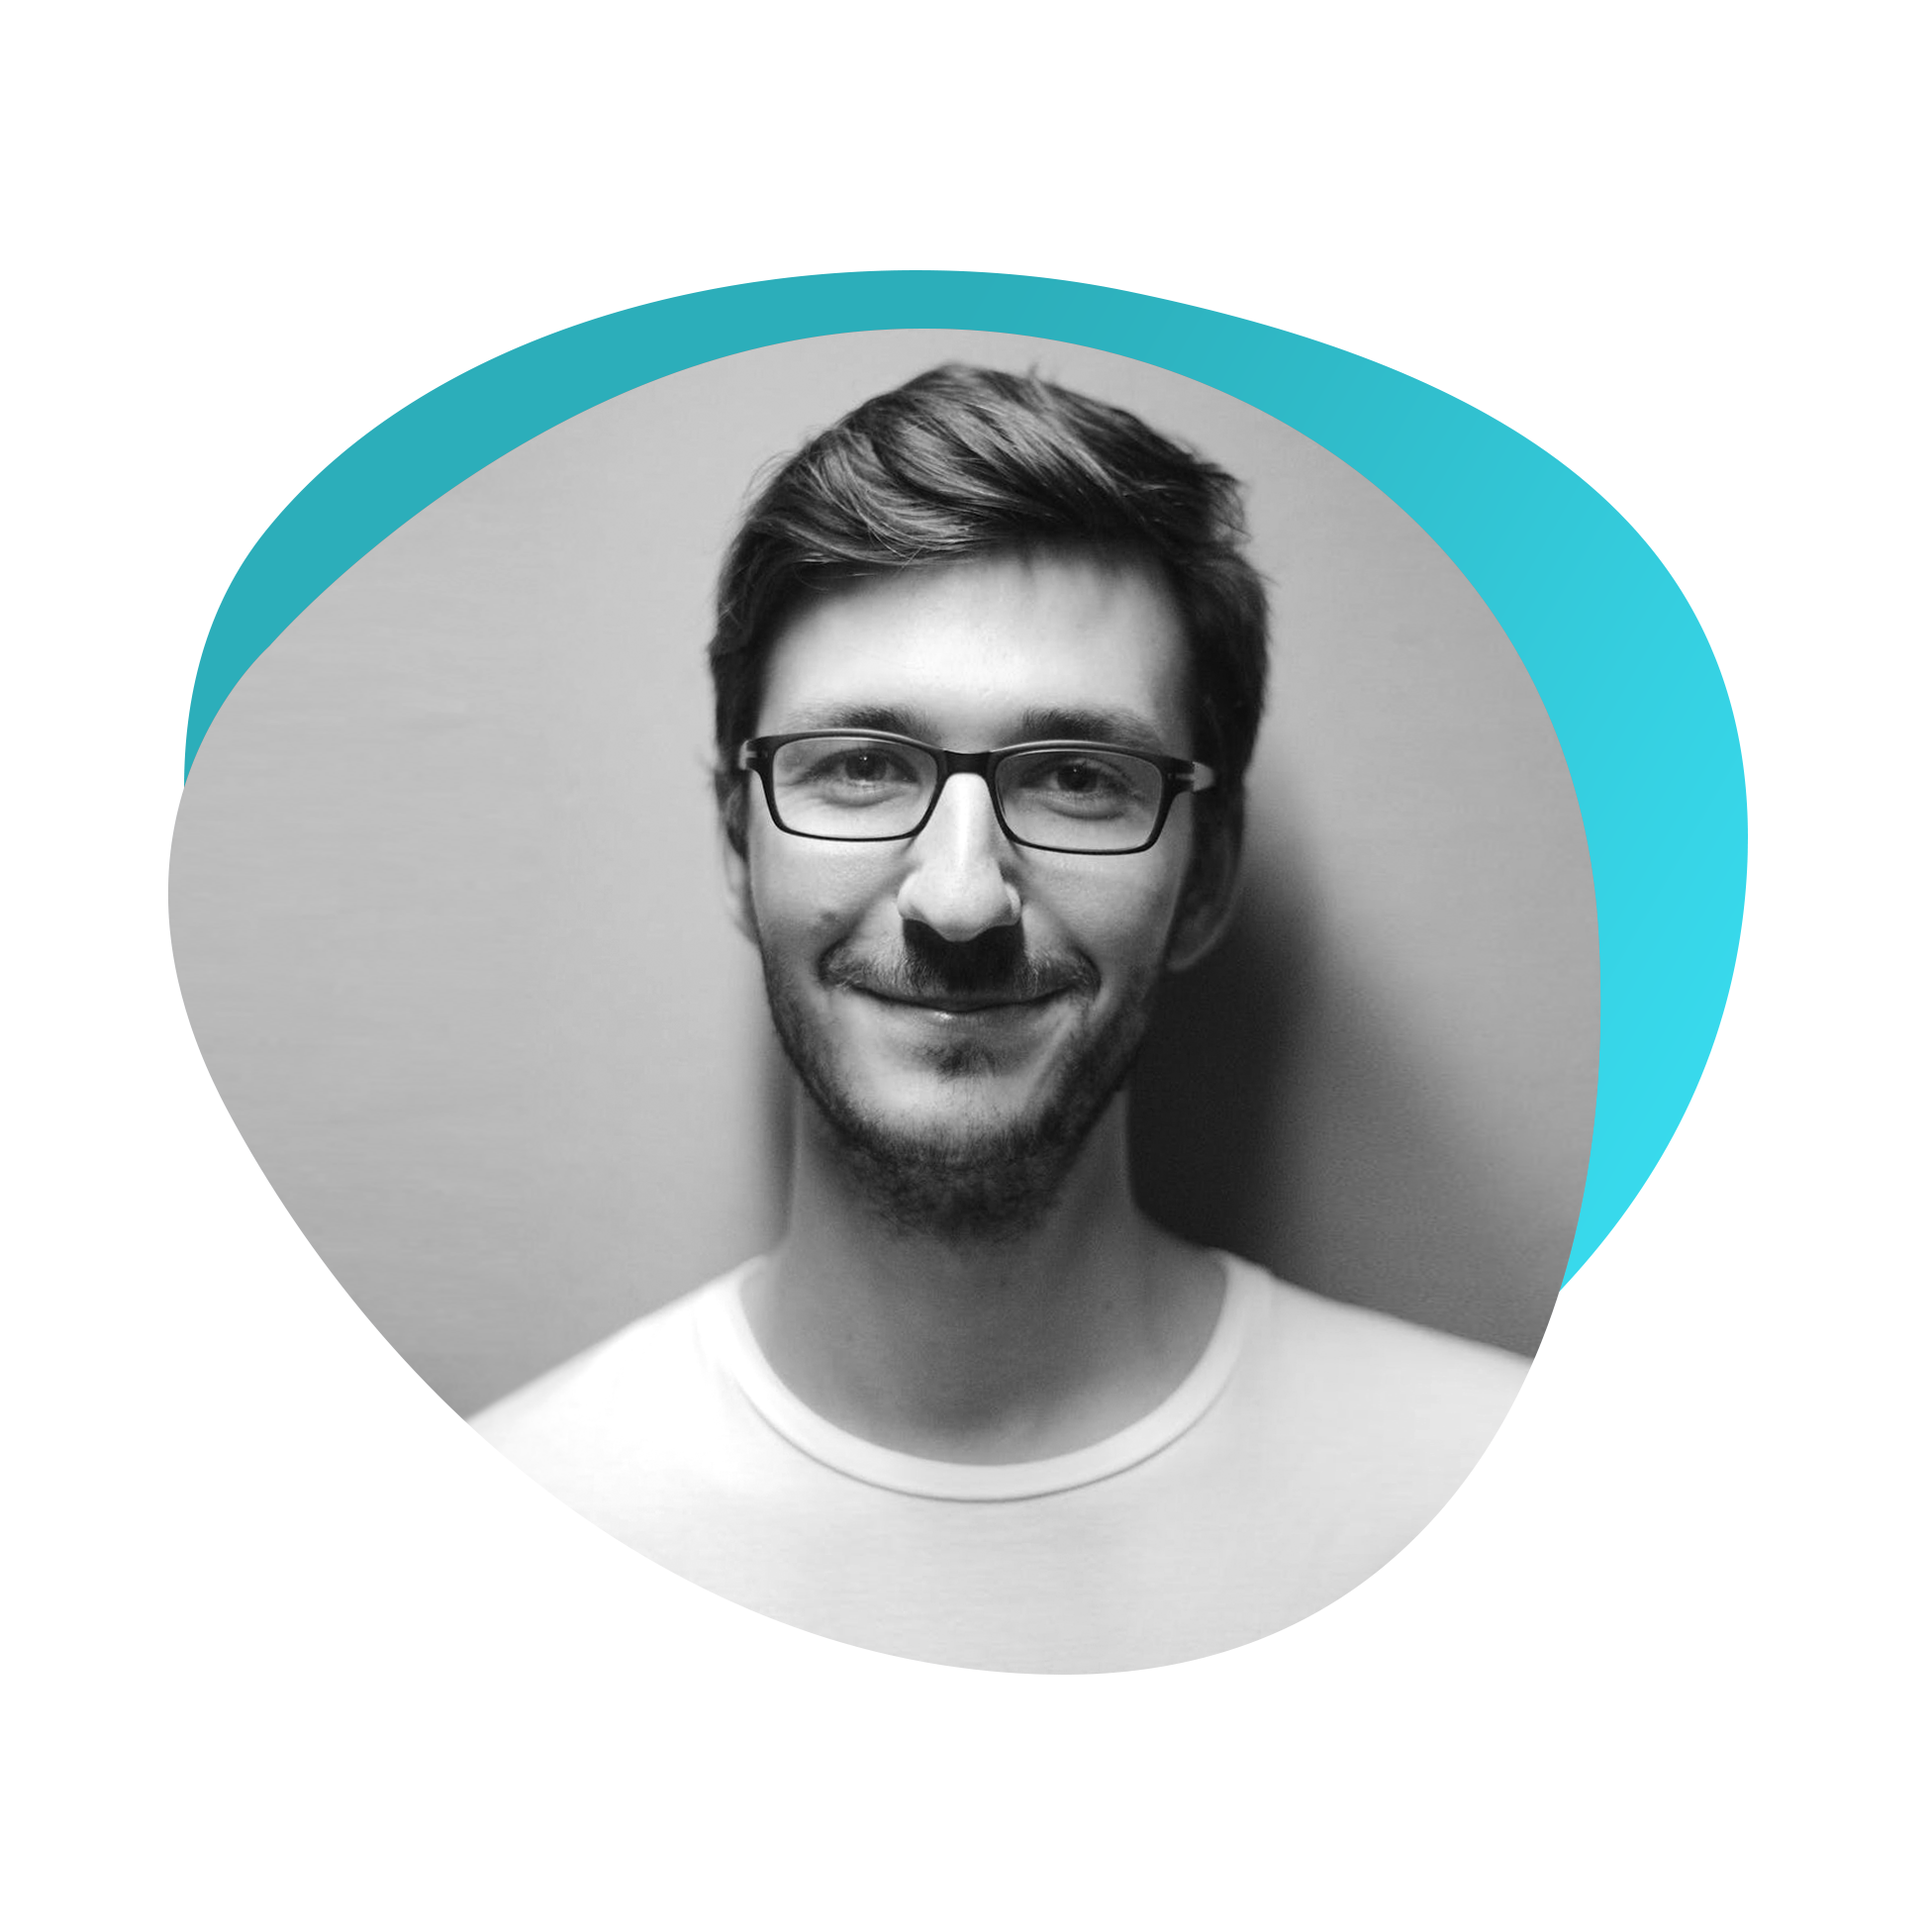
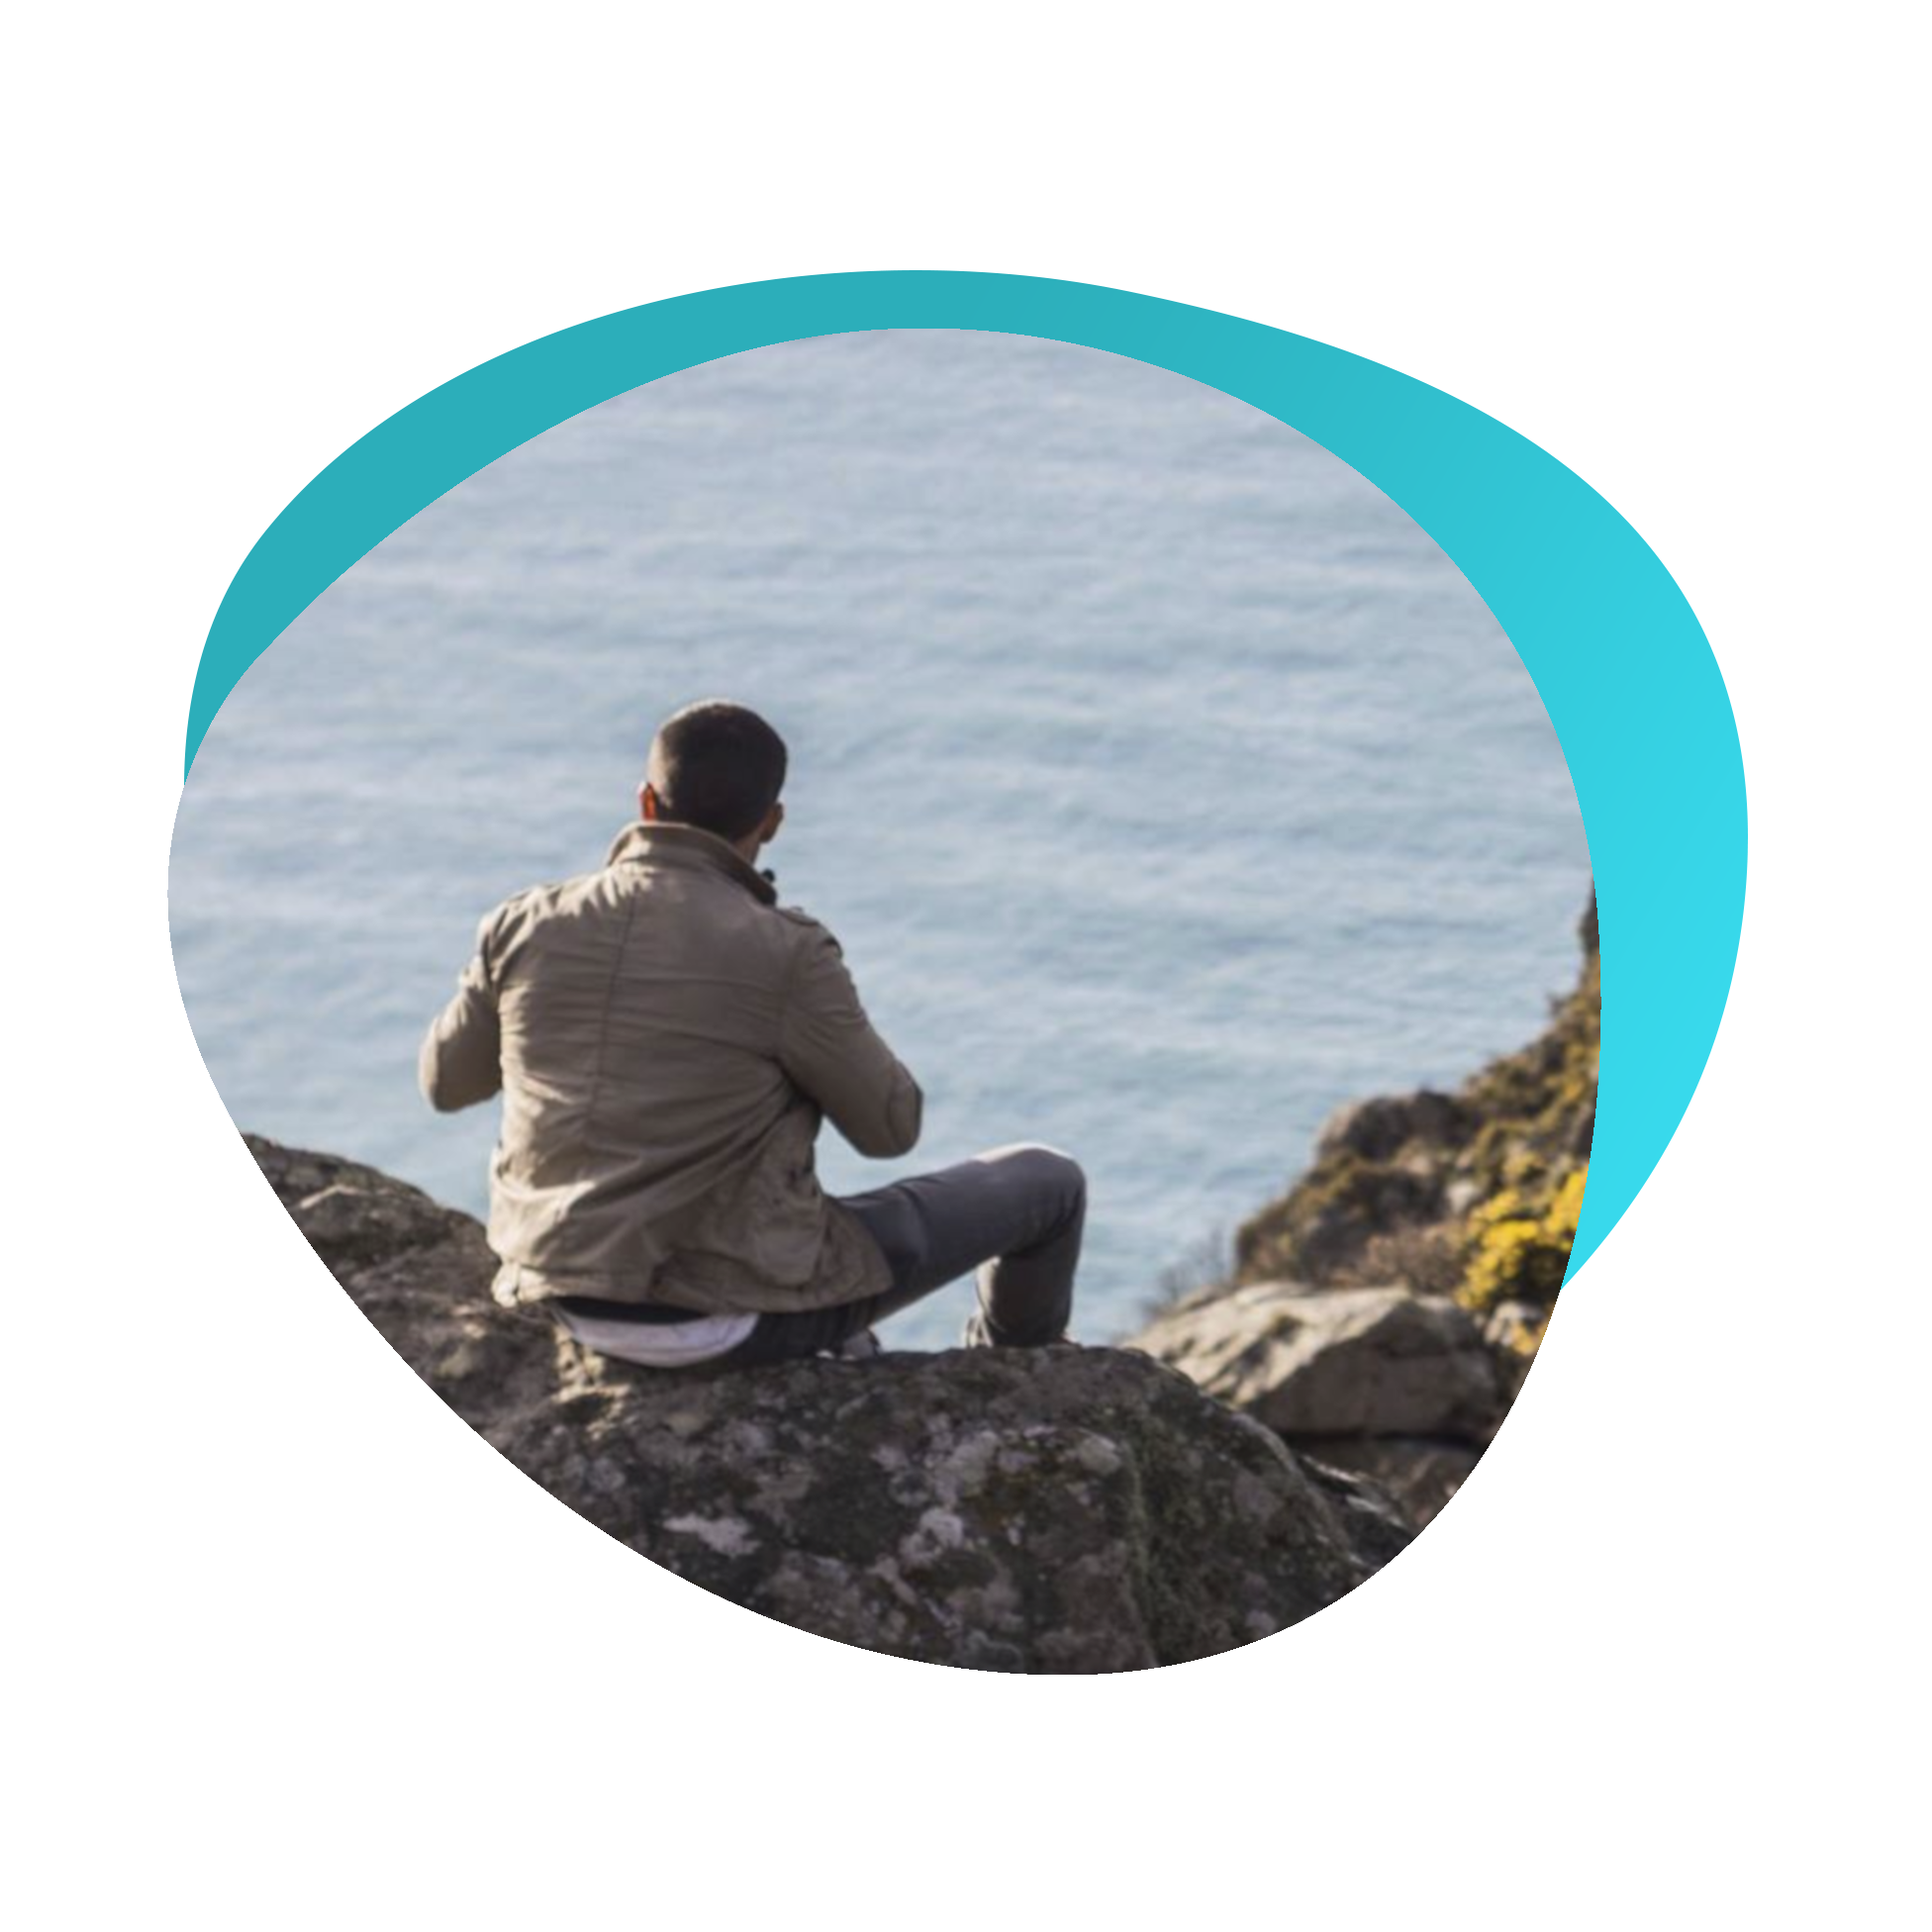
Hero image

diff --git a/src/components/Hero.js b/src/components/Hero.js
@@ -5,8 +5,29 @@ import { graphql, useStaticQuery } from "gatsby"
 import SocialLinks from "../constants/socialLinks"
 // ...GatsbyImageSharpFluid
 
+const query = graphql`
+{
+  file(relativePath: {eq: "hero-img.png"}) {
+    childImageSharp {
+      fluid {
+        ...GatsbyImageSharpFluid
+      }
+    }
+  }
+}
+`
+
 const Hero = () => {
-  return <h2>hero component</h2>
+  const {file:{childImageSharp:{ fluid }}} = useStaticQuery(query);
+
+  return (
+      <header className="hero">
+          <div className="section-center hero-center">
+              <article className="hero-info"></article>
+              <Image fluid={fluid} className="hero-img" />
+          </div>
+      </header>
+  )
 }
 
 export default Hero

diff --git a/src/pages/index.js b/src/pages/index.js
@@ -8,6 +8,8 @@ import Projects from "../components/Projects"
 import Blogs from "../components/Blogs"
 
 export default () => {
-  return <Layout>index page</Layout>
+  return <Layout>
+      <Hero />
+  </Layout>
 }
 // ...GatsbyImageSharpFluid
